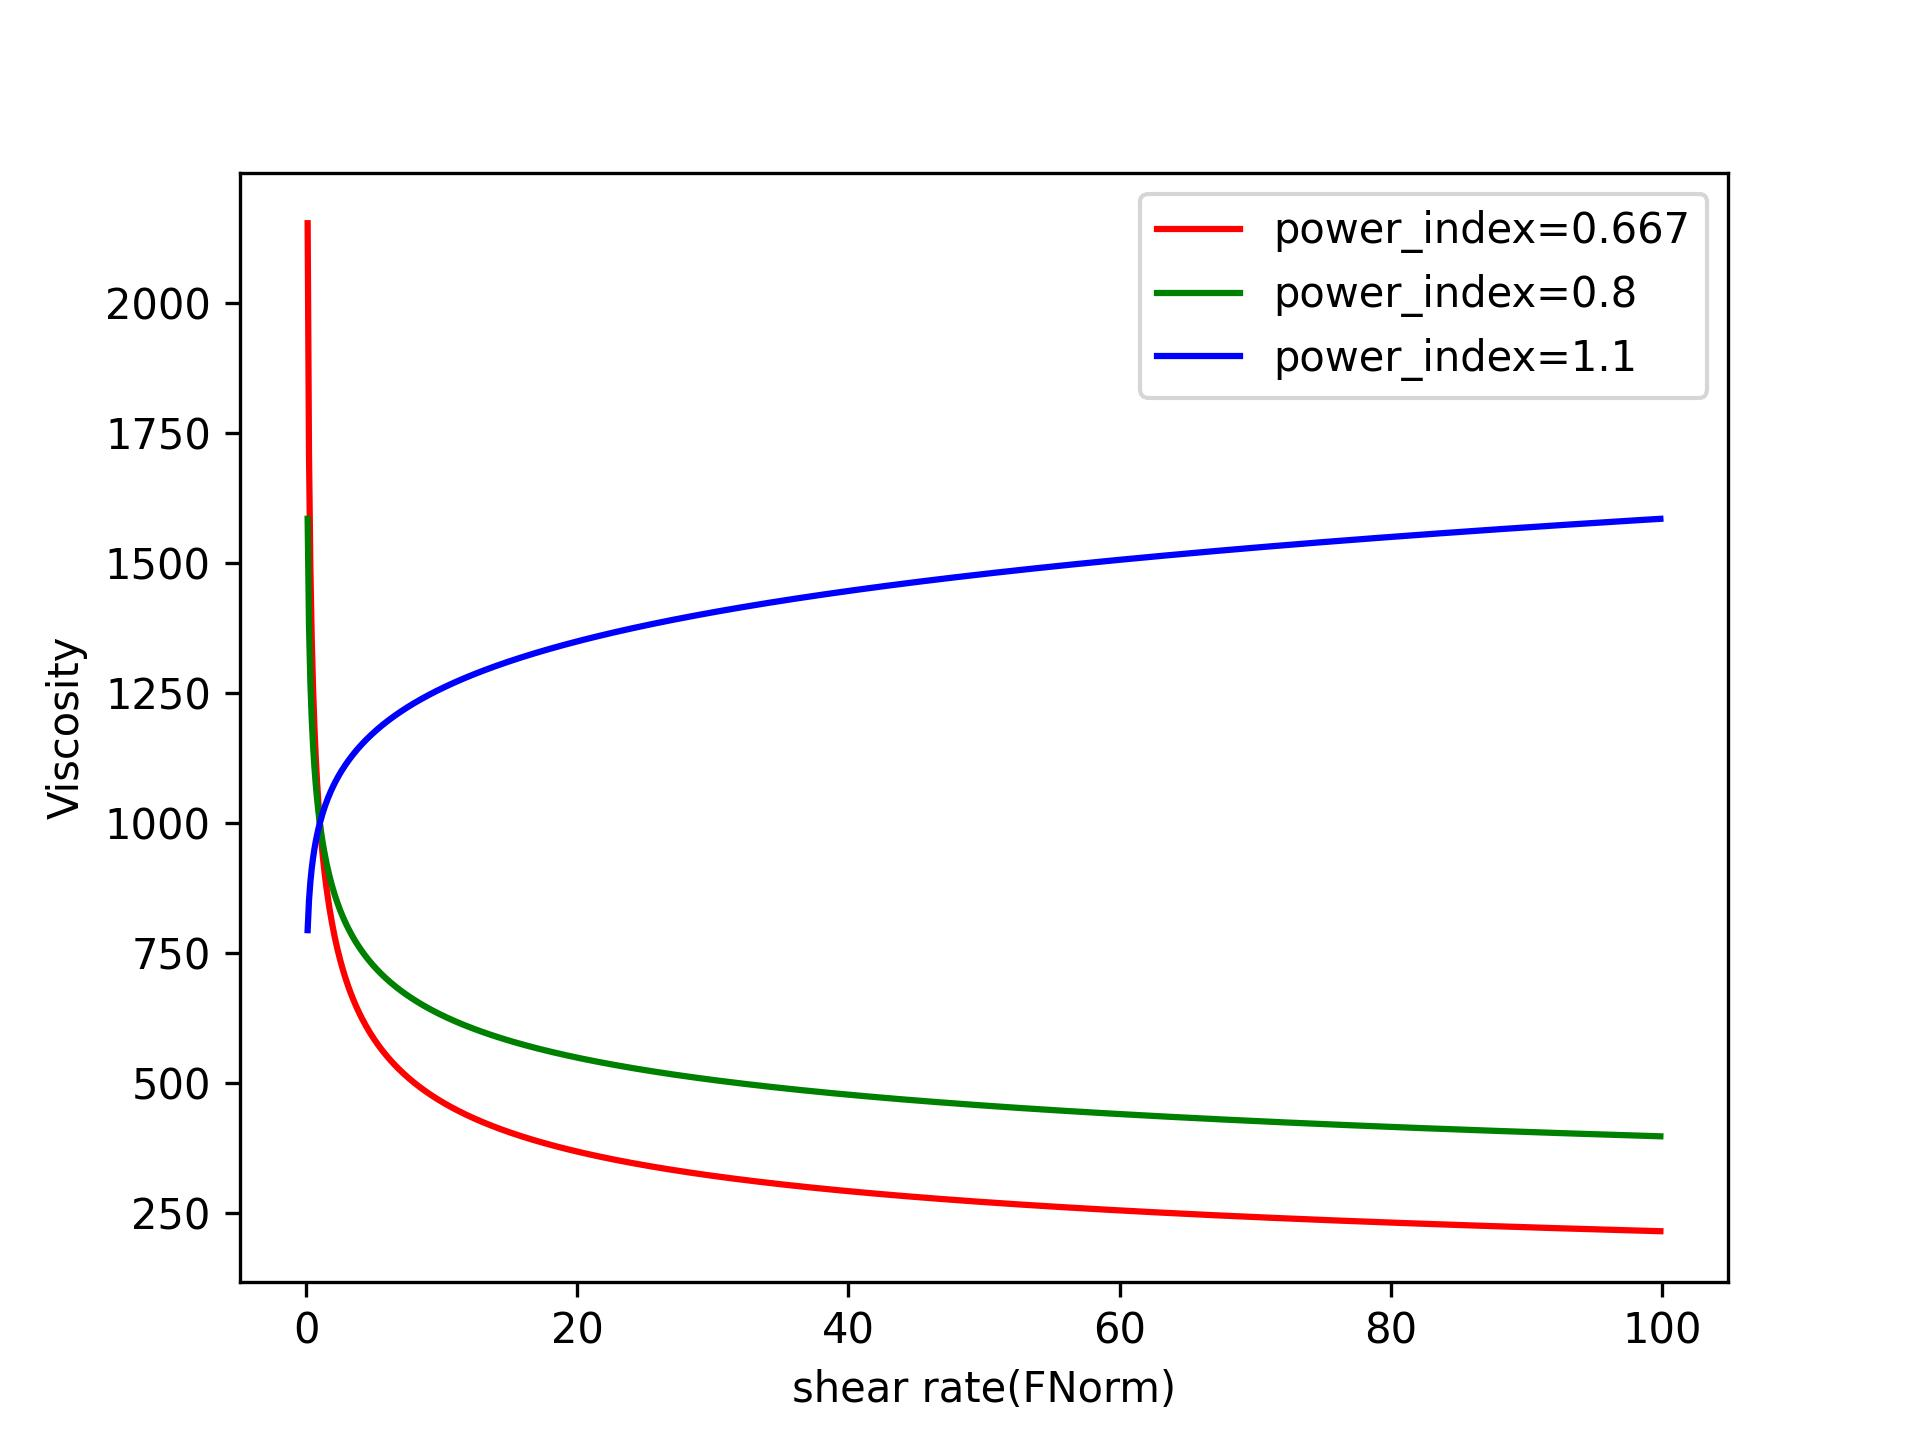
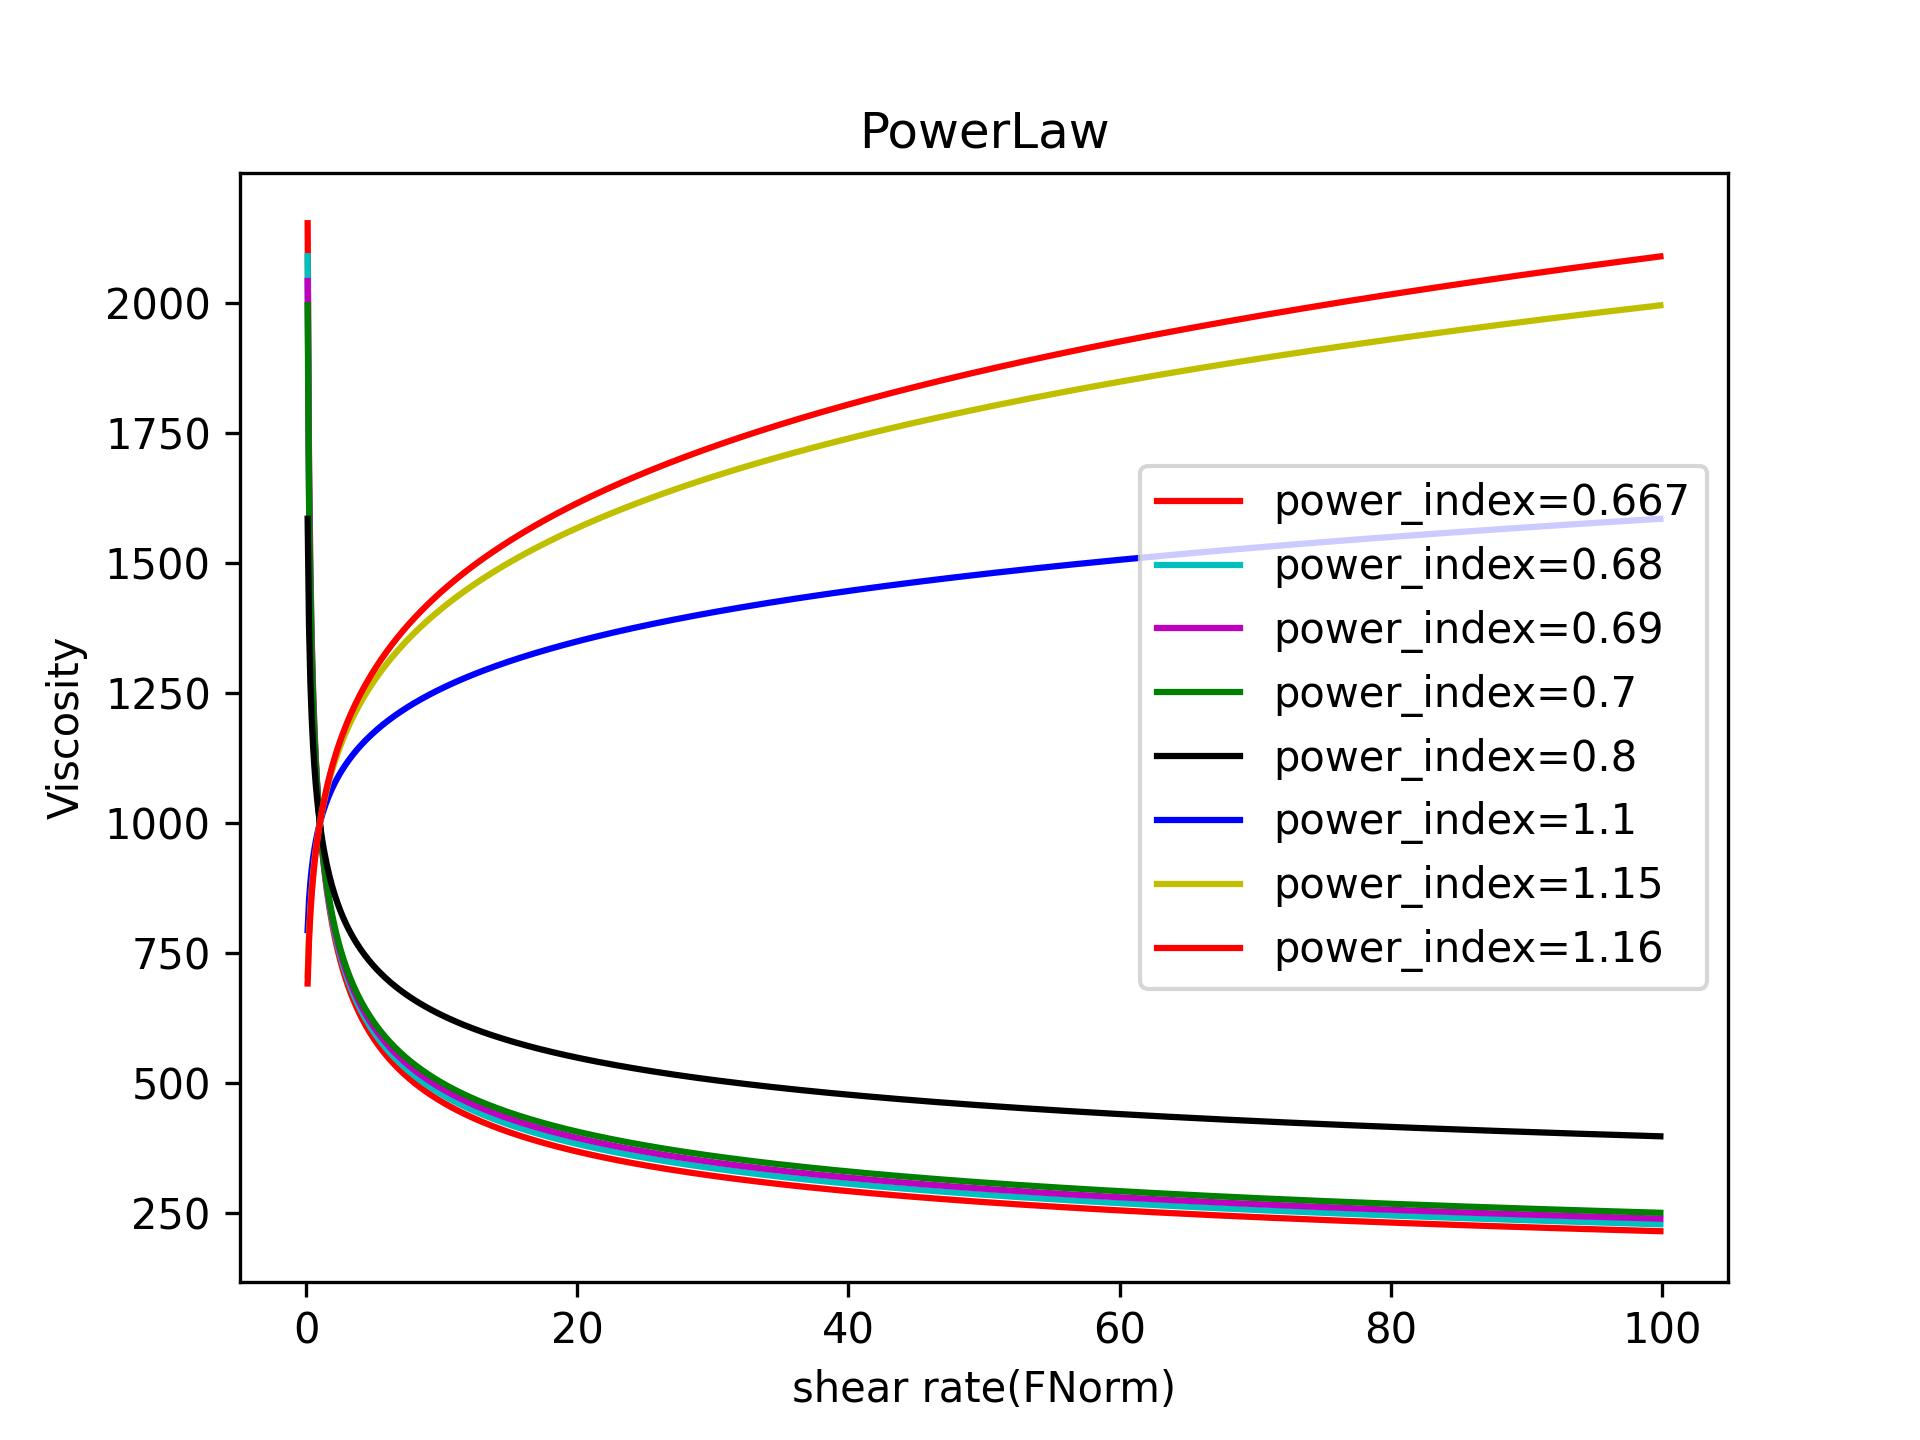
参数变化，并修改HB以满足连续性

diff --git a/test_NonNewton_new.py b/test_NonNewton_new.py
@@ -2,7 +2,7 @@ import matplotlib.pyplot as plt
 import numpy as np
 
 class NonNewton():
-    def __init__(self, viscosity0=2000.0, viscosity_inf=1.0, consistency_index=1000.0, power_index=0.667, muC=10.0, yieldStress=200.0, criticalStrainRate=20.0):
+    def __init__(self, viscosity0=2000.0, viscosity_inf=1.0, consistency_index=0.5, power_index=0.667, muC=10.0, yieldStress=180.0, criticalStrainRate=0.5):
         self.viscosity0 = viscosity0
         self.viscosity_inf = viscosity_inf
         self.consistency_index = consistency_index
@@ -37,7 +37,8 @@ class NonNewton():
         if strainRateNorm < self.criticalStrainRate:
             return self.viscosity0
         else:
-            tau0 = self.criticalStrainRate * (self.viscosity0 - self.viscosity_inf)
+            # tau0 = self.criticalStrainRate * (self.viscosity0 - self.viscosity_inf)
+            tau0 = self.viscosity0 * self.criticalStrainRate - self.consistency_index * pow(self.criticalStrainRate, self.power_index)
             return tau0 / strainRateNorm + self.consistency_index * pow(strainRateNorm, self.power_index - 1)
 
 
@@ -104,7 +105,7 @@ if __name__ == "__main__":
     draw(x, y[5], 'c', label='Bingham')
     draw(x, y[6], 'm', label='Herschel-Bulkley')
     plt.legend()
-    plt.savefig('./pics/demo_All.jpg', dpi=300)
+    # plt.savefig('./pics/demo_All.jpg', dpi=300)
 
 
     # 测试单个模型
@@ -113,21 +114,115 @@ if __name__ == "__main__":
     [x,y] = test_NonNewton('Newtonian')
     draw(x, y, 'y', label='Newtonian')
     plt.legend()
-    plt.savefig('./pics/demo_Newtonian.jpg', dpi=300)
+    # plt.savefig('./pics/demo_Newtonian.jpg', dpi=300)
 
     # 测试PowerLaw模型
     plt.figure()
     [x,y] = test_NonNewton('PowerLaw', power_index=0.667) #通过给定不同参数来测试
     draw(x, y, 'r', label='power_index=0.667')
+    [x,y] = test_NonNewton('PowerLaw', power_index=0.68) 
+    draw(x, y, 'c', label='power_index=0.68')
+    [x,y] = test_NonNewton('PowerLaw', power_index=0.69) 
+    draw(x, y, 'm', label='power_index=0.69')
+    [x,y] = test_NonNewton('PowerLaw', power_index=0.7) 
+    draw(x, y, 'g', label='power_index=0.7')
     [x,y] = test_NonNewton('PowerLaw', power_index=0.8) 
-    draw(x, y, 'g', label='power_index=0.8')
+    draw(x, y, 'k', label='power_index=0.8')
     [x,y] = test_NonNewton('PowerLaw', power_index=1.1)
     draw(x, y, 'b', label='power_index=1.1')
     # TODO:测试更多参数！
+    [x,y] = test_NonNewton('PowerLaw', power_index=1.15)
+    draw(x, y, 'y', label='power_index=1.15')
+    [x,y] = test_NonNewton('PowerLaw', power_index=1.16)
+    draw(x, y, 'r', label='power_index=1.16')
+    plt.title('PowerLaw')
     plt.legend()
-    plt.savefig('./pics/demo_PowerLaw.jpg', dpi=300)
+    # plt.savefig('./pics/demo_PowerLaw.jpg', dpi=300)
 
     # 测试Cross模型
-    # TODO:...
+    plt.figure()
+    [x,y] = test_NonNewton('Cross', consistency_index = 0.1, power_index = 0.7)
+    draw(x, y, 'k', label = 'consistency_index = 0.1, power_index = 0.667')
+    [x,y] = test_NonNewton('Cross', consistency_index = 0.5, power_index = 0.667)
+    draw(x, y, 'y', label = 'consistency_index = 0.5, power_index = 0.667')
+    [x,y] = test_NonNewton('Cross', consistency_index = 1.0, power_index = 0.68)
+    draw(x, y, 'b', label = 'consistency_index = 1.0, power_index = 0.667')
+    [x,y] = test_NonNewton('Cross', consistency_index = 5.0, power_index = 0.667)
+    draw(x, y, 'g', label = 'consistency_index = 5.0, power_index = 0.667')
+    [x,y] = test_NonNewton('Cross', consistency_index = 10.0, power_index = 0.667)
+    draw(x, y, 'm', label = 'consistency_index = 10.0, power_index = 0.667')
+    [x,y] = test_NonNewton('Cross', consistency_index = 100.0, power_index = 0.667)
+    draw(x, y, 'r', label = 'consistency_index = 100.0, power_index = 0.667')
+    [x,y] = test_NonNewton('Cross', consistency_index = 1000.0, power_index = 0.667)
+    draw(x, y, 'c', label = 'consistency_index = 1000.0, power_index = 0.667')
+    plt.title('Cross')
+    plt.legend()
+    # plt.savefig('./pics/demo_Cross.jpg', dpi = 300)
+
+    # 测试Casson模型
+    plt.figure()
+    [x,y] = test_NonNewton('Casson', muC = 10.0, yieldStress = 200.0)
+    draw(x, y, 'r', label = 'muC = 10.0, yieldStress = 200.0')
+    [x,y] = test_NonNewton('Casson', muC = 8.0, yieldStress = 200.0)
+    draw(x, y, 'c', label = 'muC = 8.0, yieldStress = 200.0')
+    [x,y] = test_NonNewton('Casson', muC = 8.0, yieldStress = 190.0)
+    draw(x, y, 'k', label = 'muC = 8.0, yieldStress = 190.0')
+    [x,y] = test_NonNewton('Casson', muC = 8.0, yieldStress = 180.0)
+    draw(x, y, 'g', label = 'muC = 8.0, yieldStress = 180.0')
+    plt.title('Casson')
+    plt.legend()
+    # plt.savefig('./pics/demo_Casson.jpg', dpi = 300)
+
+    #测试Carreau模型
+    plt.figure()
+    [x,y] = test_NonNewton('Carreau', consistency_index = 1000.0, power_index = 0.667)
+    draw(x, y, 'r', label = 'consistency_index = 1000.0, power_index = 0.667')
+    [x,y] = test_NonNewton('Carreau', consistency_index = 2000.0, power_index = 0.667)
+    draw(x, y, 'c', label = 'consistency_index = 2000.0, power_index = 0.667')
+    [x,y] = test_NonNewton('Carreau', consistency_index = 500.0, power_index = 0.667)
+    draw(x, y, 'k', label = 'consistency_index = 500.0, power_index = 0.667')
+    [x,y] = test_NonNewton('Carreau', consistency_index = 2000.0, power_index = 0.7)
+    draw(x, y, 'b', label = 'consistency_index = 2000.0, power_index = 0.7')
+    [x,y] = test_NonNewton('Carreau', consistency_index = 2000.0, power_index = 0.8)
+    draw(x, y, 'y', label = 'consistency_index = 2000.0, power_index = 0.8')
+    [x,y] = test_NonNewton('Carreau', consistency_index = 3000.0, power_index = 0.667)
+    draw(x, y, 'm', label = 'consistency_index = 3000.0, power_index = 0.667')
+    plt.title('Carreau')    
+    plt.legend()
+    # plt.savefig('./pics/demo_Carreau.jpg', dpi = 300)
+
+    #测试Bingham模型
+    plt.figure()
+    [x,y] = test_NonNewton('Bingham', criticalStrainRate = 20.0)
+    draw(x, y, 'r', label = 'criticalStrainRate = 20.0')
+    [x,y] = test_NonNewton('Bingham', criticalStrainRate = 10.0)
+    draw(x, y, 'c', label = 'criticalStrainRate = 10.0')
+    [x,y] = test_NonNewton('Bingham', criticalStrainRate = 5.0)
+    draw(x, y, 'b', label = 'criticalStrainRate = 5.0')
+    [x,y] = test_NonNewton('Bingham', criticalStrainRate = 30.0)
+    draw(x, y, 'g', label = 'criticalStrainRate = 30.0')
+    [x,y] = test_NonNewton('Bingham', criticalStrainRate = 1.0)
+    draw(x, y, 'y', label = 'criticalStrainRate = 1.0')
+    [x,y] = test_NonNewton('Bingham', criticalStrainRate = 0.5)
+    draw(x, y, 'k', label = 'criticalStrainRate = 0.5')
+    plt.title('Bingham')
+    plt.legend()
+    # plt.savefig('./pics/demo_Bingham.jpg', dpi = 300)
+
+    #测试HerschelBulkley模型
+    plt.figure()
+    [x,y] = test_NonNewton('HerschelBulkley', consistency_index = 1000.0, power_index = 0.667, criticalStrainRate = 20.0)
+    draw(x, y, 'r', label = 'consistency_index = 1000.0, power_index=0.667, criticalStrainRate = 20.0')
+    [x,y] = test_NonNewton('HerschelBulkley', consistency_index = 80.0, power_index = 0.667, criticalStrainRate = 20.0)
+    draw(x, y, 'c', label = 'consistency_index = 80.0, power_index=0.667, criticalStrainRate = 20.0')
+    [x,y] = test_NonNewton('HerschelBulkley', consistency_index = 100.0, power_index = 0.667, criticalStrainRate = 20.0)
+    draw(x, y, 'y', label = 'consistency_index = 100.0, power_index=0.667, criticalStrainRate = 20.0')
+    [x,y] = test_NonNewton('HerschelBulkley', consistency_index = 70.0, power_index = 0.667, criticalStrainRate = 1.0)
+    draw(x, y, 'm', label = 'consistency_index = 70.0, power_index=0.667, criticalStrainRate = 1.0')
+    [x,y] = test_NonNewton('HerschelBulkley', consistency_index = 60.0, power_index = 0.667, criticalStrainRate = 1.0)
+    draw(x, y, 'k', label = 'consistency_index = 60.0, power_index=0.667, criticalStrainRate = 1.0')
+    plt.title('HerschelBulkley')
+    plt.legend()
+    # plt.savefig('./pics/demo_HerschelBulkley.jpg', dpi = 300)
 
     plt.show()
